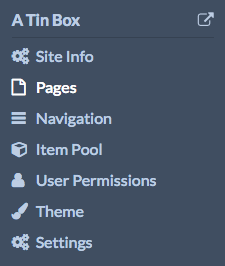
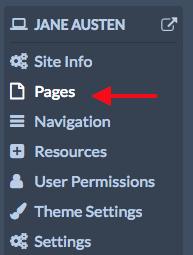
updating sites documentation

diff --git a/sites/sites.md b/sites/sites.md
@@ -40,37 +40,52 @@ When you are ready, click the *Add* button in the upper right corner. Once the p
 
 ## Manage a site
 To manage a site, navigate to the *Sites* tab from the Omeka S Admin Dashboard. Click either on the site’s title or the edit (pencil) button in the list of sites. 
- 
-The admin show page for a site, you can see the URL Slug, Title, and current Theme for the site. 
 
-![Sites show page, displaying summary information](../sites/sitesfiles/sites_show.png)
+This will take you to the Site Info page, and open the context menu for that site in the left hand navigation. 
+
+The context menu for every site has the site title at the top, with an icon of a computer (the site icon) to the right. To the left of the site title is a view button (box with escaping arrow). Clicking the view button will open the public side of the site in a new window.
+
+![Context menu for the site Jane Austen, with two modules installed](../sites/sitesfiles/sites_menu.png)
 
 Site admin left hand navigation options are: 
 - *Site Info*, (see below)
 - *[Pages](../sites/site_pages.md)*, 
 - *[Navigation](../sites/site_navigation.md)*, 
-- *[Item Pool](../sites/site_itempool.md)*,
+- *[Resources](../sites/site_resources.md)*,
 - *User Permissions*, (see below)
-- *Theme* (see below)
+- *[Theme Settings](../sites/site_themesettings.md)*,
 - *Settings*. (see below)
 
-The standard options in the left hand navigation of the Omeka S Admin (items, item sets, etc) are still available under the *Global Navigation* header. Click the words *Global Navigation* or the small orange arrow to reveal the standard left-hand navigation menu options.
+Any modules which you have installed that have site-specific settings will appear below the site Settings tab in the site's context menu. In the image above, the modules Metadata Browse and Collecting are installed.
+
+The standard options in the left hand navigation of the Omeka S Admin (items, item sets, etc) are still available below the site context menu. 
 
 ## Site Info 
-The site info settings for an Omeka S site are where you can change the *URL slug*, site *Title*, and *theme*. 
+The site info settings for an Omeka S site are where you can change the basic info for the site:
+* *title* (text)
+* *slug* (text)
+* *theme* (dropdown)
 
 ![Site info for the site “Jane Austen” with buttons across the top to View, Delete, and Save the site](../sites/sitesfiles/sites_siteinfo.png)
 
-From this tab you can use the the *make public/private* button (eye icon) to set whether the site is visible to the public or only to users of the Omeka S system. 
+In the upper right hand corner of the window on this tab, you can use buttons to:
+- *Public/Private button* (see below);
+- *View* the public side of the site;
+- *Delete* the site;
+- *Save* changes.
 
-![make public button showing an eye icon](../content/contentfiles/item_public.png) Public 
+The *make public/private* button (eye icon) is used to both indicate and set whether the site is visible to the public or only to users of this Omeka S installation 
+Site is public:
+![make public button showing an eye icon](../content/contentfiles/item_public.png) 
 
-![make private button showing an eye icon with a diagonal slash through it](../content/contentfiles/item_private.png)  Private
+Site is Private:
+![make private button showing an eye icon with a diagonal slash through it](../content/contentfiles/item_private.png)
 
 ## See also: 
 * [Site Pages](../sites/site_pages.md)
 * [Site Navigation](../sites/site_navigation.md)
-* [Site Item Pool](../sites/site_pages.md)
+* [Site Resources](../sites/site_resources.md)
+* [Theme Settings](../sites/site_themesettings.md)
 
 ## Managing User Permissions
 To add a user to a site, navigate to the *User Permissions* tab.
@@ -87,13 +102,6 @@ Then select their role from the dropdown:
 *Admin*: user has full administrative privileges for the site, including adding users and deleting the site.
 
 Once you've added one or more users, click the Save button located in the upper right hand corner. You can add or revoke privileges for users by going back to the User permissions tab and selecting or deselecting the boxes and clicking Save. Users can be deleted from the site by clicking the trash can icon on their row.
-
-## Theme
-This tab allows you to customize theme settings for the site.
-
-![Theme settings with Top Navigation depth at 0](../sites/sitesfiles/sites_theme.png)
-
-The setting *Top Navigation Depth* allows you the limit the depth of the top navigation menu on the public side of the site.  The default setting, 0, does not restrict the number of levels of the top navigation menu. Setting it to one would only show the top-level pages or links of your site.
 
 ## Settings
 This tab allows you to configure settings for the site overall.

diff --git a/sites/site_themesettings.md b/sites/site_themesettings.md
@@ -1,0 +1,14 @@
+---
+title: Site Theme Settings
+date: 25 October 2016
+---
+
+The theme for the site is selected in the [site info](../sites/sites.md#site-info) tab of your site. This tab allows you to customize theme settings for the site.
+
+Depending on which theme you have selected, you may see any of the following setting options:
+
+Top Navigation Depth
+-------------------------------
+The setting *Top Navigation Depth* allows you the limit the depth of the top navigation menu on the public side of the site.  The default setting, 0, does not restrict the number of levels of the top navigation menu. Setting it to one would only show the top-level pages or links of your site.
+
+![Theme settings with Top Navigation depth at 0](../sites/sitesfiles/sites_theme.png)

diff --git a/sites/site_resources.md b/sites/site_resources.md
@@ -1,7 +1,8 @@
 ---
-title: Sites Item Pool
+title: Site Resources
+date: 25 October 2016
 ---
-
+The 
 The Item Pool determines what automatically appears in the resource selection options on the [pages](../sites/site_pages.md) of your Omeka S [site](../sites/sites.md). It also can also be used to limit the resources which appear on a browse page on your site.
 
 ![The Item Pool tab on site settings has multiple search options, as described below](../sites/sitesfiles/sites_itempool.png)
